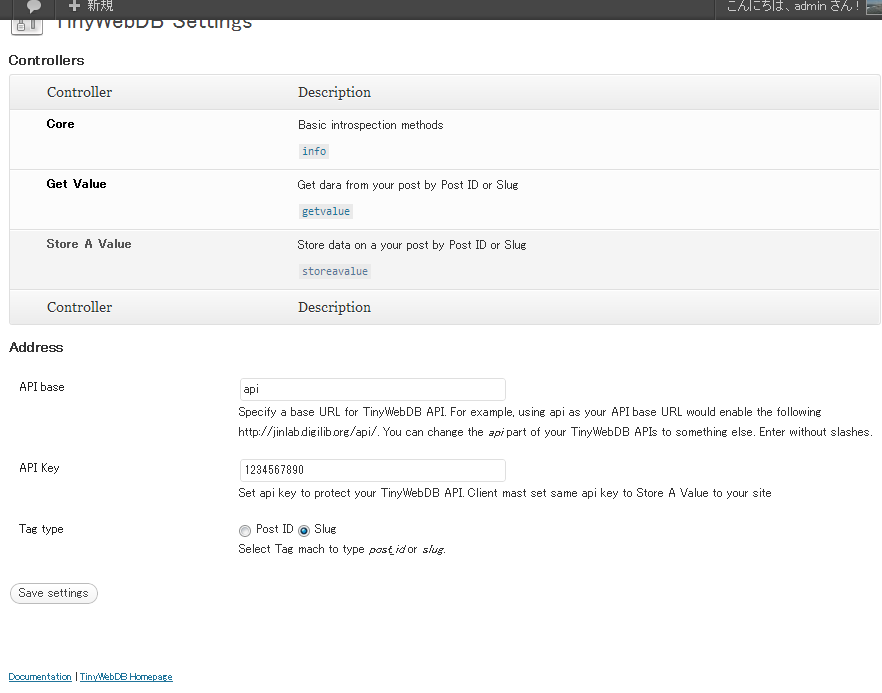
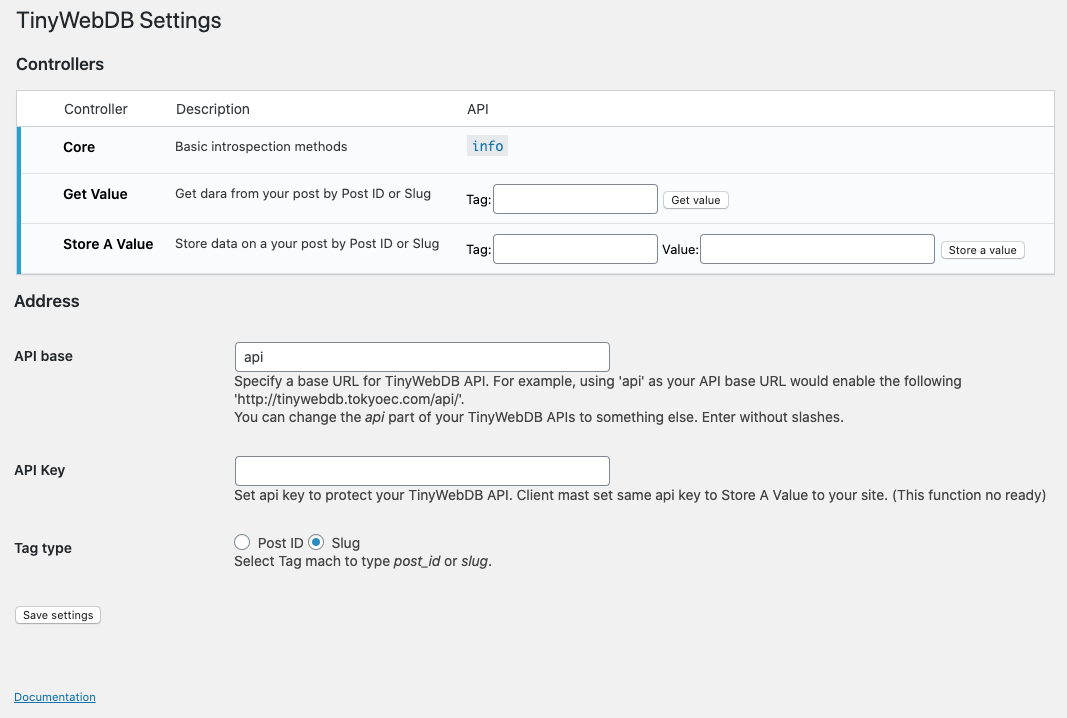
App test form on admin page.

diff --git a/menus.php b/menus.php
@@ -94,7 +94,6 @@ function wp_tinywebdb_api_optionsmenu() {
 	$setting_tagtype = get_option("wp_tinywebdb_api_tag_type") or $setting_tagtype = 'slug';
 	$setting_apikey = get_option("wp_tinywebdb_api_key");
 
-	echo '<form method="post" action="">';
 	echo '<table class="form-table">';
 	?>
 
@@ -133,7 +132,11 @@ function wp_tinywebdb_api_optionsmenu() {
               <p>Get dara from your post by Post ID or  Slug </p>
             </td>
             <td class="desc">
-	      <p><code><a href="<?php echo get_option('home') . "/" . $setting_url_trigger ?>/getvalue/">getvalue</a></code></p>
+    <form action="<?php echo get_option('home') . "/" . $setting_url_trigger ?>/getvalue" method="post" enctype=application/x-www-form-urlencoded>
+       Tag:<input type="text" name="tag" />
+       <input type="hidden" name="fmt" value="html">
+       <input type="submit" value="Get value">
+    </form>
             </td>
           </tr>
           </tr>
@@ -147,7 +150,12 @@ function wp_tinywebdb_api_optionsmenu() {
               <p>Store data on a your post by Post ID or  Slug </p>
             </td>
             <td class="desc">
-	      <p><code><a href="<?php echo get_option('home') . "/" . $setting_url_trigger ?>/storeavalue/">storeavalue</a></code></p>
+    <form action="<?php echo get_option('home') . "/" . $setting_url_trigger ?>/storeavalue" method="post" enctype=application/x-www-form-urlencoded>
+	   Tag:<input type="text" name="tag"/>
+	   Value:<input type="text" name="value" size="30"/>
+	   <input type="hidden" name="fmt" value="html">
+	   <input type="submit" value="Store a value">
+    </form>
             </td>
      </tbody>
     </table>
@@ -156,15 +164,16 @@ function wp_tinywebdb_api_optionsmenu() {
 
 	<h3>Address</h3>
 
+	<form method="post" action="">
     <table class="form-table">
         <tr valign="top">
             <th scope="row">API base</th>
-		<td><input name="urltrigger" type="text" id="urltrigger" value="<?php echo $setting_url_trigger; ?>" size="50" /><br/>Specify a base URL for TinyWebDB API. For example, using api as your API base URL would enable the following <?php echo get_option('home'); ?>/api/. You can change the <em>api</em> part of your TinyWebDB APIs to something else. Enter without slashes.</td>
+		<td><input name="urltrigger" type="text" id="urltrigger" value="<?php echo $setting_url_trigger; ?>" size="50" /><br/>Specify a base URL for TinyWebDB API. For example, using 'api' as your API base URL would enable the following '<?php echo get_option('home'); ?>/api/'. <br>You can change the <em>api</em> part of your TinyWebDB APIs to something else. Enter without slashes.</td>
 	</tr>
 
         <tr valign="top">
             <th scope="row">API Key</th>
-		<td><input name="apikey" type="text" id="apikey" value="<?php echo $setting_apikey; ?>" size="50" /><br/>Set api key to protect your TinyWebDB API. Client mast set same api key to Store A Value to your site</td>
+		<td><input name="apikey" type="text" id="apikey" value="<?php echo $setting_apikey; ?>" size="50" /><br/>Set api key to protect your TinyWebDB API. Client mast set same api key to Store A Value to your site. (This function no ready)</td>
 	</tr>
 
 	<tr valign="top">
@@ -175,11 +184,12 @@ function wp_tinywebdb_api_optionsmenu() {
 			<br/>Select Tag mach to type <em>post_id</em> or <em>slug</em>.</td>
 	</tr>
 
+	</table>
+	<input name="issubmitted" type="hidden" value="yes" />
+	<p class="submit"><input type="submit" name="Submit" value="Save settings" /></p>
+	</form>
+
 	<?php
-	echo '</table>';
-	echo '<input name="issubmitted" type="hidden" value="yes" />';
-	echo '<p class="submit"><input type="submit" name="Submit" value="Save settings" /></p>';
-	echo '</form>';
 	wp_tinywebdb_api_footer();
 	echo '</div>';
 }

diff --git a/tinywebdb.php b/tinywebdb.php
@@ -50,16 +50,14 @@ if ( !class_exists('TinyWebDB') ) {
     	}
 
     	if ( strpos('/'.$request, '/'.$url_trigger.'/') ) {
-
-        $tinywebdb_key = explode($url_trigger.'/', $request);
-        $tinywebdb_key = $tinywebdb_key[1];
-        $tinywebdb_key = explode('/', $tinywebdb_key);
-        $action = $tinywebdb_key[0];
-        $action = $wpdb->escape($action);
-
-        return $action;
-  		}
-      return "No match!";
+		$tinywebdb_key = explode($url_trigger.'/', $request);
+		$tinywebdb_key = $tinywebdb_key[1];
+		$tinywebdb_key = explode('/', $tinywebdb_key);
+		$action = $tinywebdb_key[0];
+		$action = $wpdb->escape($action);
+        	return $action;
+ 	}
+	return "No match!";
     }
 
     function wp_tinywebdb_api_get_postid($tagName){

diff --git a/tinywebdb-api.php b/tinywebdb-api.php
@@ -8,11 +8,11 @@ Description: a AppInventor TinyWebDB API plugin, use you WordPress as a TinyWebD
     Store A Value {ServiceURL}/storeavalue tag,value        JSON: ["STORED", "{tag}", {value}]
 Author: Hong Chen
 Author URI: http://edu2web.com/tinywebdb-api/
-Version: 0.2.10
+Version: 0.2.11
 */
 
 define("TINYWEBDB", "tools.php?page=tinywebdb-api/tinywebdb-api.php");
-define("TINYWEBDB_VER", "0.2.10");
+define("TINYWEBDB_VER", "0.2.11");
 
 //***** Hooks *****
 register_activation_hook(__FILE__,'wp_tinywebdb_api_install'); //Install

diff --git a/README.md b/README.md
@@ -9,7 +9,7 @@ Document URI: http://api.edu2web.com/tinywebdb-api/
 **Requires at least:** 4.0  
 **Requires PHP:** 5.2.4  
 **Tested up to:** 5.5  
-**Stable tag:** 0.2.10
+**Stable tag:** 0.2.11
 **License:** GPLv2 or later  
 **License URI:** http://www.gnu.org/licenses/gpl-2.0.html  
 
@@ -97,7 +97,8 @@ Active "Store A Value" and some enhancement.
 ### 0.2.9 ### 
 Active log viewer and some enhancement.
 
-### 0.2.10 ###  
+### 0.2.11 ###  
 App PHP7 support.
+App test form on admin page.
 
 ### 1.0.0 ###  
